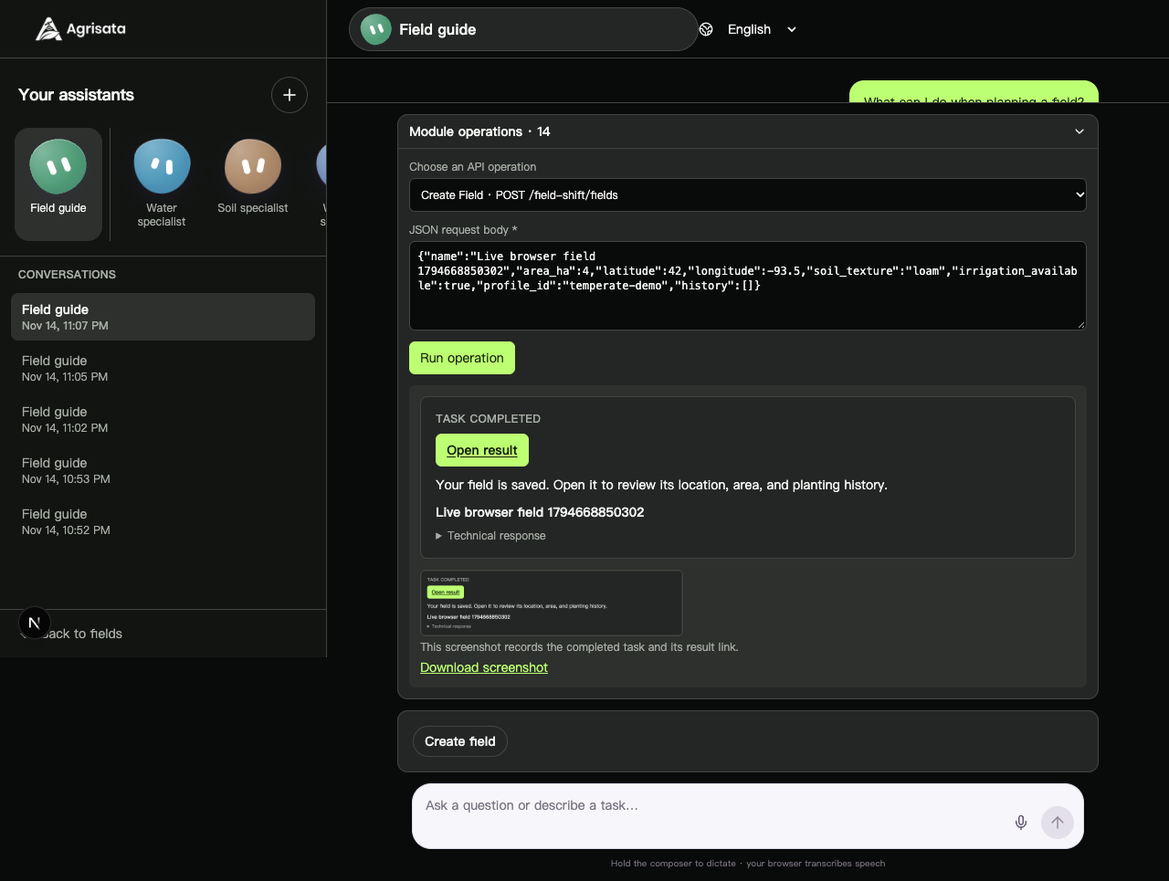
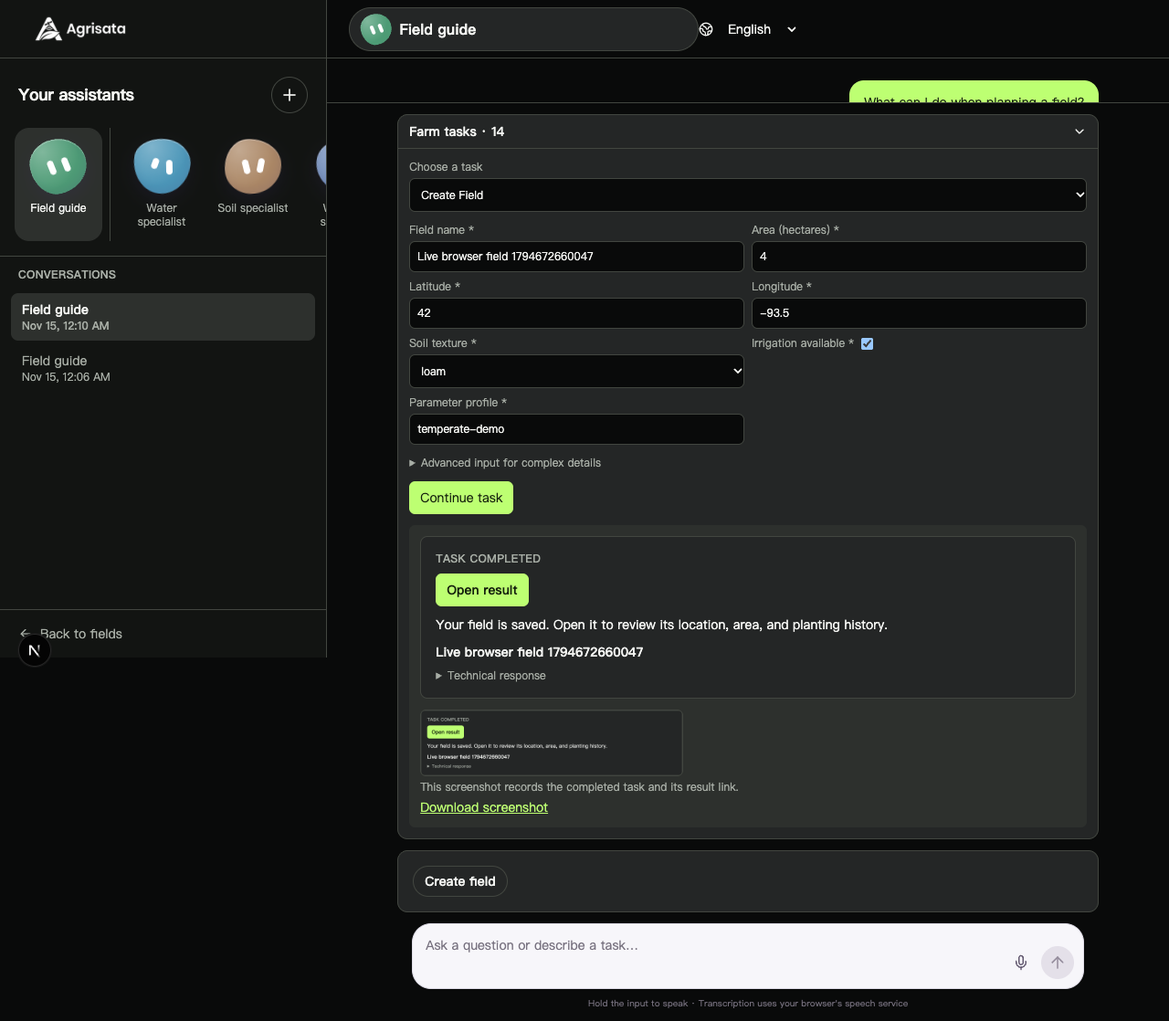
feat(assistant): show farmer-friendly task fields and refresh browser evidence

diff --git a/sideronostos-frontend/src/features/si/module-operations.tsx b/sideronostos-frontend/src/features/si/module-operations.tsx
@@ -9,8 +9,8 @@ import { CompletionReceipt } from "./completion-receipt";
 
 type Props = { conversationId: string; language: "en" | "zh" };
 const labels = {
-  en: { heading: "Module operations", choose: "Choose an API operation", loadError: "Could not load module operations.", noOps: "This assistant has no operational APIs. Ask it a question to search its knowledge base.", run: "Run operation", working: "Running…", body: "JSON request body", result: "Operation result", open: "Open result", progress: "View progress", invalid: "Enter a valid JSON object.", inputs: "Required information", method: "Method", status: "Status", details: "Technical response" },
-  zh: { heading: "模块接口操作", choose: "选择要执行的接口", loadError: "模块接口目录加载失败。", noOps: "此助手没有可操作接口。可以直接提问来检索它的知识库。", run: "执行接口", working: "正在执行…", body: "JSON 请求体", result: "操作结果", open: "打开结果", progress: "查看进度", invalid: "请输入有效的 JSON 对象。", inputs: "需要补充的信息", method: "方法", status: "状态", details: "技术返回数据" },
+  en: { heading: "Farm tasks", choose: "Choose a task", loadError: "Could not load farm tasks.", noOps: "This assistant has no operational tasks. Ask it a question to search its knowledge base.", run: "Continue task", working: "Working…", body: "Advanced JSON input", advanced: "Advanced input for complex details", result: "Operation result", open: "Open result", progress: "View progress", invalid: "Enter a valid JSON object.", inputs: "Required information", method: "Method", status: "Status", details: "Technical response" },
+  zh: { heading: "农场任务", choose: "选择要完成的任务", loadError: "农场任务加载失败。", noOps: "此助手没有可操作的任务。可以直接提问来检索知识库。", run: "继续任务", working: "正在处理…", body: "高级 JSON 输入", advanced: "复杂信息的高级输入", result: "操作结果", open: "打开结果", progress: "查看进度", invalid: "请输入有效的 JSON 对象。", inputs: "需要补充的信息", method: "方法", status: "状态", details: "技术返回数据" },
 };
 
 function resultSummary(result: unknown, language: "en" | "zh"): string | null {
@@ -36,8 +36,36 @@ function requiredValue(schema: unknown): unknown {
   if (shape.default !== undefined) return shape.default;
   if (shape.enum?.length) return shape.enum[0];
   if (shape.type === "boolean") return false;
-  if (shape.type === "integer" || shape.type === "number") return 0;
+  if (shape.type === "array") return [];
+  if (shape.type === "integer" || shape.type === "number") return "";
   return "";
+}
+
+function initialBody(operation?: ModuleOperation): string {
+  const schema = operation?.body as { properties?: Record<string, unknown> } | null;
+  const initial = Object.fromEntries((operation?.required_body_parameters ?? [])
+    .map((key) => [key, requiredValue(schema?.properties?.[key])]));
+  return JSON.stringify(initial, null, 2);
+}
+
+type PropertyShape = { type?: string; title?: string; description?: string; enum?: unknown[] };
+
+function bodyObject(value: string): Record<string, unknown> {
+  try {
+    const parsed: unknown = JSON.parse(value);
+    return parsed && typeof parsed === "object" && !Array.isArray(parsed)
+      ? parsed as Record<string, unknown> : {};
+  } catch { return {}; }
+}
+
+function fieldTitle(name: string, language: "en" | "zh"): string {
+  const names: Record<string, [string, string]> = {
+    name: ["Field name", "地块名称"], area_ha: ["Area (hectares)", "面积（公顷）"],
+    latitude: ["Latitude", "纬度"], longitude: ["Longitude", "经度"],
+    soil_texture: ["Soil texture", "土壤质地"], irrigation_available: ["Irrigation available", "具备灌溉条件"],
+    profile_id: ["Parameter profile", "参数配置"],
+  };
+  return names[name]?.[language === "zh" ? 1 : 0] ?? name.replaceAll("_", " ");
 }
 
 export function ModuleOperations({ conversationId, language }: Props) {
@@ -59,7 +87,11 @@ export function ModuleOperations({ conversationId, language }: Props) {
   useEffect(() => {
     let live = true;
     api.listModuleOperations(conversationId).then(({ items }) => {
-      if (live) { setOperations(items); setSelectedId(items[0]?.operation_id ?? ""); }
+      if (live) {
+        setOperations(items);
+        setSelectedId(items[0]?.operation_id ?? "");
+        setBodyText(initialBody(items[0]));
+      }
     }).catch(() => { if (live) setError(text.loadError); });
     return () => { live = false; };
   }, [conversationId, text.loadError]);
@@ -71,13 +103,19 @@ export function ModuleOperations({ conversationId, language }: Props) {
     return () => { live = false; };
   }, [conversationId]);
   const selected = useMemo(() => operations.find((item) => item.operation_id === selectedId) ?? null, [operations, selectedId]);
+  const bodyValues = useMemo(() => bodyObject(bodyText), [bodyText]);
+  const bodyProperties = (selected?.body?.properties ?? {}) as Record<string, PropertyShape>;
+  function setBodyProperty(name: string, value: unknown, required: boolean) {
+    const updated = { ...bodyObject(bodyText) };
+    if (value === "" && !required) delete updated[name];
+    else updated[name] = value;
+    setBodyText(JSON.stringify(updated, null, 2));
+  }
   function select(id: string) {
     touched.current = true;
     setSelectedId(id); setPathValues({}); setQueryValues({}); setOutcome(null); setError("");
     const operation = operations.find((item) => item.operation_id === id);
-    const schema = operation?.body as { properties?: Record<string, unknown> } | null;
-    const initial = Object.fromEntries((operation?.required_body_parameters ?? []).map((key) => [key, requiredValue(schema?.properties?.[key])]));
-    setBodyText(JSON.stringify(initial, null, 2));
+    setBodyText(initialBody(operation));
   }
   async function run() {
     if (!selected || busy) return;
@@ -109,12 +147,26 @@ export function ModuleOperations({ conversationId, language }: Props) {
       {error && <p role="alert" className="text-destructive">{error}</p>}
       {!error && operations.length === 0 && <p className="text-muted-foreground">{text.noOps}</p>}
       {operations.length > 0 && <>
-        <label className="block text-xs text-muted-foreground">{text.choose}<select aria-label={text.choose} className="mt-1 block w-full rounded-md border border-border bg-background p-2 text-foreground" value={selectedId} onChange={(event) => select(event.target.value)}>{operations.map((item) => <option key={item.operation_id} value={item.operation_id}>{item.title ? `${item.title} · ` : ""}{item.method} {item.path}</option>)}</select></label>
+        <label className="block text-xs text-muted-foreground">{text.choose}<select aria-label={text.choose} className="mt-1 block w-full rounded-md border border-border bg-background p-2 text-foreground" value={selectedId} onChange={(event) => select(event.target.value)}>{operations.map((item) => <option key={item.operation_id} value={item.operation_id}>{item.title || item.operation_id.replaceAll("_", " ")}</option>)}</select></label>
         {selected && <>
           {(selected.path_parameters.length > 0 || selected.query_parameters.length > 0) && <div className="grid gap-2 sm:grid-cols-2">
             {[...selected.path_parameters.map((name) => ({ name, group: "path" as const, required: true })), ...selected.query_parameters.map((name) => ({ name, group: "query" as const, required: selected.required_query_parameters.includes(name) }))].map(({ name, group, required }) => <label key={`${group}.${name}`} className="text-xs text-muted-foreground">{name}{required ? " *" : ""}<input aria-label={`${name}${required ? " *" : ""}`} required={required} value={(group === "path" ? pathValues : queryValues)[name] ?? ""} onChange={(event) => (group === "path" ? setPathValues : setQueryValues)((values) => ({ ...values, [name]: event.target.value }))} className="mt-1 block w-full rounded-md border border-border bg-background p-2 text-foreground" /></label>)}
           </div>}
-          {selected.body && <label className="block text-xs text-muted-foreground">{text.body}{selected.body_required ? " *" : ""}<textarea aria-label={text.body} value={bodyText} onChange={(event) => setBodyText(event.target.value)} rows={5} spellCheck={false} className="mt-1 block w-full rounded-md border border-border bg-background p-2 font-mono text-xs text-foreground" /></label>}
+          {selected.body && <>
+            <div className="grid gap-2 sm:grid-cols-2">
+              {Object.entries(bodyProperties).filter(([, shape]) => shape.type === "string" || shape.type === "number" || shape.type === "integer" || shape.type === "boolean").map(([name, shape]) => {
+                const required = selected.required_body_parameters.includes(name);
+                const label = `${fieldTitle(name, language)}${required ? " *" : ""}`;
+                const current = bodyValues[name];
+                return <label key={name} className="text-xs text-muted-foreground">{label}
+                  {shape.enum?.length ? <select aria-label={label} value={String(current ?? "")} onChange={(event) => setBodyProperty(name, event.target.value, required)} className="mt-1 block w-full rounded-md border border-border bg-background p-2 text-foreground">{!required && <option value="">—</option>}{shape.enum.map((value) => <option key={String(value)} value={String(value)}>{String(value)}</option>)}</select>
+                    : shape.type === "boolean" ? <input aria-label={label} type="checkbox" checked={current === true} onChange={(event) => setBodyProperty(name, event.target.checked, required)} className="ml-2 align-middle" />
+                      : <input aria-label={label} type={shape.type === "number" || shape.type === "integer" ? "number" : "text"} step={shape.type === "integer" ? "1" : shape.type === "number" ? "any" : undefined} value={typeof current === "string" || typeof current === "number" ? current : ""} onChange={(event) => setBodyProperty(name, shape.type === "number" || shape.type === "integer" ? (event.target.value === "" ? "" : Number(event.target.value)) : event.target.value, required)} className="mt-1 block w-full rounded-md border border-border bg-background p-2 text-foreground" />}
+                </label>;
+              })}
+            </div>
+            <details className="text-xs text-muted-foreground"><summary className="cursor-pointer">{text.advanced}</summary><label className="mt-2 block">{text.body}<textarea aria-label={text.body} value={bodyText} onChange={(event) => setBodyText(event.target.value)} rows={5} spellCheck={false} className="mt-1 block w-full rounded-md border border-border bg-background p-2 font-mono text-xs text-foreground" /></label></details>
+          </>}
           <button type="button" onClick={() => void run()} disabled={busy} className="rounded-md bg-primary px-3 py-2 text-primary-foreground disabled:opacity-60">{busy && <LoaderCircle size={14} className="mr-1 inline animate-spin" />}{busy ? text.working : text.run}</button>
         </>}
       </>}

diff --git a/sideronostos-frontend/e2e/assistant-live.spec.ts b/sideronostos-frontend/e2e/assistant-live.spec.ts
@@ -2,6 +2,16 @@ import { expect, test } from "@playwright/test";
 
 test.skip(!process.env.ASSISTANT_LIVE_BACKEND, "Requires the dedicated live assistant test app and seeded test database");
 
+async function fillFieldTask(page: import("@playwright/test").Page, name: string, area: string) {
+  await page.getByRole("textbox", { name: "Field name *" }).fill(name);
+  await page.getByRole("spinbutton", { name: "Area (hectares) *" }).fill(area);
+  await page.getByRole("spinbutton", { name: "Latitude *" }).fill("42");
+  await page.getByRole("spinbutton", { name: "Longitude *" }).fill("-93.5");
+  await page.getByRole("combobox", { name: "Soil texture *" }).selectOption("loam");
+  await page.getByRole("checkbox", { name: "Irrigation available *" }).check();
+  await page.getByRole("textbox", { name: "Parameter profile *" }).fill("temperate-demo");
+}
+
 test("uses real HTTP handlers for knowledge, field creation, result link, and screenshot", async ({ page }) => {
   await page.goto("/si/multi-agent");
   await page.getByRole("button", { name: "Field guide" }).click();
@@ -10,22 +20,18 @@ test("uses real HTTP handlers for knowledge, field creation, result link, and sc
   await expect(composer).toBeVisible();
   await composer.fill("What can I do when planning a field?");
   await page.getByRole("button", { name: "Send message" }).click();
-  await expect(page.getByText(/For your farm planning/).first()).toBeVisible();
+  await expect(page.getByText(/I can explain field setup/).first()).toBeVisible();
   await page.screenshot({ path: "output/playwright/assistant-live-answer.png", fullPage: true });
   await page.getByRole("button", { name: /View source/ }).first().click();
   await expect(page.getByRole("link", { name: "Open source" })).toBeVisible();
   await page.getByRole("button", { name: "Close source" }).click();
 
-  await page.getByText(/Module operations/).click();
-  const operations = page.getByRole("combobox", { name: "Choose an API operation" });
+  await page.getByText(/Farm tasks/).click();
+  const operations = page.getByRole("combobox", { name: "Choose a task" });
   await operations.selectOption("create_field_field_shift_fields_post");
   const name = `Live browser field ${Date.now()}`;
-  await page.getByRole("textbox", { name: "JSON request body" }).fill(JSON.stringify({
-    name, area_ha: 4, latitude: 42, longitude: -93.5,
-    soil_texture: "loam", irrigation_available: true,
-    profile_id: "temperate-demo", history: [],
-  }));
-  await page.getByRole("button", { name: "Run operation" }).click();
+  await fillFieldTask(page, name, "4");
+  await page.getByRole("button", { name: "Continue task" }).click();
   const receipt = page.getByRole("region", { name: "Operation result" });
   const link = receipt.getByRole("link", { name: "Open result" });
   await expect(link).toHaveAttribute("href", /\/field-shift\?field=[^&]+&step=field/);
@@ -35,7 +41,7 @@ test("uses real HTTP handlers for knowledge, field creation, result link, and sc
   await expect.poll(() => screenshot.evaluate((image: HTMLImageElement) => image.naturalWidth)).toBeGreaterThan(0);
   await page.screenshot({ path: "output/playwright/assistant-live.png", fullPage: true });
   await page.reload();
-  await page.getByText(/Module operations/).click();
+  await page.getByText(/Farm tasks/).click();
   await expect(link).toHaveAttribute("href", /\/field-shift\?field=/);
   await link.click();
   await expect(page).toHaveURL(/\/field-shift\?field=/);
@@ -60,9 +66,9 @@ test("runs the other module assistants against real HTTP handlers", async ({ pag
     const response = await completed;
     expect(response.status()).toBe(200);
     expect((await response.json()).response.paragraphs.length).toBeGreaterThan(0);
-    await page.getByText(/Module operations/).click();
-    await page.getByRole("combobox", { name: "Choose an API operation" }).selectOption(bot.operation);
-    await page.getByRole("button", { name: "Run operation" }).click();
+    await page.getByText(/Farm tasks/).click();
+    await page.getByRole("combobox", { name: "Choose a task" }).selectOption(bot.operation);
+    await page.getByRole("button", { name: "Continue task" }).click();
     const receipt = page.getByRole("region", { name: "Operation result" });
     await expect(receipt.getByRole("link", { name: "Open result" })).toHaveAttribute("href", bot.href);
     await expect(receipt.getByRole("img", { name: "Completed task screenshot" })).toBeVisible();
@@ -75,8 +81,8 @@ test("runs the other module assistants against real HTTP handlers", async ({ pag
   const completed = page.waitForResponse((response) => response.url().endsWith("/messages") && response.request().method() === "POST");
   await page.getByRole("button", { name: "Send message" }).click();
   expect((await completed).status()).toBe(200);
-  await page.getByText(/Module operations/).click();
-  await expect(page.getByText("This assistant has no operational APIs. Ask it a question to search its knowledge base.")).toBeVisible();
+  await page.getByText(/Farm tasks/).click();
+  await expect(page.getByText("This assistant has no operational tasks. Ask it a question to search its knowledge base.")).toBeVisible();
   await page.screenshot({ path: "output/playwright/assistant-live-local-knowledge.png", fullPage: true });
 });
 
@@ -84,15 +90,11 @@ test("executes a field operation from its own module dock", async ({ page }) => 
   await page.goto("/si/field-management");
   await page.getByRole("button", { name: "Open Field guide" }).click();
   await page.getByRole("button", { name: "Use module tools" }).click();
-  await page.getByText(/Module operations/).click();
-  await page.getByRole("combobox", { name: "Choose an API operation" }).selectOption("create_field_field_shift_fields_post");
+  await page.getByText(/Farm tasks/).click();
+  await page.getByRole("combobox", { name: "Choose a task" }).selectOption("create_field_field_shift_fields_post");
   const name = `Dock field ${Date.now()}`;
-  await page.getByRole("textbox", { name: "JSON request body" }).fill(JSON.stringify({
-    name, area_ha: 2.5, latitude: 42, longitude: -93.5,
-    soil_texture: "loam", irrigation_available: true,
-    profile_id: "temperate-demo", history: [],
-  }));
-  await page.getByRole("button", { name: "Run operation" }).click();
+  await fillFieldTask(page, name, "2.5");
+  await page.getByRole("button", { name: "Continue task" }).click();
   const result = page.getByRole("region", { name: "Operation result" });
   await expect(result.getByRole("link", { name: "Open result" })).toHaveAttribute("href", /\/field-shift\?field=/);
   await expect(result.getByRole("img", { name: "Completed task screenshot" })).toBeVisible();
@@ -107,9 +109,9 @@ test("opens real remote and rotation results from their module docks and answers
     await page.goto(item.route);
     await page.getByRole("button", { name: `Open ${item.bot}` }).click();
     await page.getByRole("button", { name: "Use module tools" }).click();
-    await page.getByText(/Module operations/).click();
-    await page.getByRole("combobox", { name: "Choose an API operation" }).selectOption(item.operation);
-    await page.getByRole("button", { name: "Run operation" }).click();
+    await page.getByText(/Farm tasks/).click();
+    await page.getByRole("combobox", { name: "Choose a task" }).selectOption(item.operation);
+    await page.getByRole("button", { name: "Continue task" }).click();
     const result = page.getByRole("region", { name: "Operation result" });
     await expect(result.getByRole("link", { name: "Open result" })).toHaveAttribute("href", item.href);
     await expect(result.getByRole("img", { name: "Completed task screenshot" })).toBeVisible();
@@ -121,5 +123,5 @@ test("opens real remote and rotation results from their module docks and answers
   const response = page.waitForResponse((event) => event.url().endsWith("/messages") && event.request().method() === "POST");
   await page.getByRole("button", { name: "Send message" }).click();
   expect((await response).status()).toBe(200);
-  await expect(page.getByText(/For your farm planning/).first()).toBeVisible();
+  await expect(page.getByText(/I can answer questions from the available local knowledge/).first()).toBeVisible();
 });

diff --git a/sideronostos-frontend/src/features/si/module-operations.test.tsx b/sideronostos-frontend/src/features/si/module-operations.test.tsx
@@ -20,7 +20,7 @@ it("restores the last completed result link after reopening a conversation", asy
     },
   }] });
   render(<ModuleOperations conversationId="chat-restored" language="en" />);
-  await userEvent.setup().click(await screen.findByText(/Module operations/));
+  await userEvent.setup().click(await screen.findByText(/Farm tasks/));
   expect(await screen.findByRole("link", { name: "Open result" })).toHaveAttribute("href", "/field-shift?field=field-7&step=field");
   expect(screen.getByText("North field")).toBeInTheDocument();
 });
@@ -41,11 +41,11 @@ it("collects required API inputs, reports missing information, and opens a compl
     href: "/field-shift?field=field-7&step=field",
   });
   render(<ModuleOperations conversationId="chat-1" language="en" />);
-  await user.click(await screen.findByText(/Module operations/));
-  await user.click(screen.getByRole("button", { name: "Run operation" }));
+  await user.click(await screen.findByText(/Farm tasks/));
+  await user.click(screen.getByRole("button", { name: "Continue task" }));
   expect(await screen.findByText("Please provide field_id")).toBeInTheDocument();
   await user.type(screen.getByRole("textbox", { name: "field_id *" }), "field-7");
-  await user.click(screen.getByRole("button", { name: "Run operation" }));
+  await user.click(screen.getByRole("button", { name: "Continue task" }));
   await waitFor(() => expect(api.postModuleOperation).toHaveBeenCalledTimes(2));
   expect(api.postModuleOperation.mock.calls[1][1]).toEqual(expect.objectContaining({
     operation_id: "get_field", path_params: { field_id: "field-7" },
@@ -65,8 +65,8 @@ it("does not render an unsafe result URL", async () => {
     status_code: 200, result: [], content_type: "application/json", href: "//evil.example",
   });
   render(<ModuleOperations conversationId="chat-2" language="en" />);
-  await user.click(await screen.findByText(/Module operations/));
-  await user.click(screen.getByRole("button", { name: "Run operation" }));
+  await user.click(await screen.findByText(/Farm tasks/));
+  await user.click(screen.getByRole("button", { name: "Continue task" }));
   expect(await screen.findByText("Completed")).toBeInTheDocument();
   expect(screen.queryByRole("link", { name: "Open result" })).not.toBeInTheDocument();
 });
@@ -84,8 +84,39 @@ it("shows a progress link for an accepted job without a completion screenshot", 
     content_type: "application/json", href: "/field-shift/rotation?run=run-1",
   });
   render(<ModuleOperations conversationId="chat-3" language="en" />);
-  await user.click(await screen.findByText(/Module operations/));
-  await user.click(screen.getByRole("button", { name: "Run operation" }));
+  await user.click(await screen.findByText(/Farm tasks/));
+  await user.click(screen.getByRole("button", { name: "Continue task" }));
   expect(await screen.findByRole("link", { name: "View progress" })).toHaveAttribute("href", "/field-shift/rotation?run=run-1");
   expect(screen.queryByRole("img", { name: "Completed task screenshot" })).not.toBeInTheDocument();
+});
+
+it("collects a field task through labelled inputs and keeps complex JSON optional", async () => {
+  const user = userEvent.setup();
+  api.listModuleOperations.mockResolvedValue({ items: [{
+    operation_id: "create_field", title: "Create Field", method: "POST", path: "/field-shift/fields",
+    path_parameters: [], query_parameters: [], required_query_parameters: [],
+    body: { type: "object", properties: {
+      name: { type: "string" }, area_ha: { type: "number" },
+      irrigation_available: { type: "boolean" }, history: { type: "array" },
+    } },
+    body_required: true, required_body_parameters: ["name", "area_ha", "irrigation_available", "history"],
+    required_inputs: ["body.name", "body.area_ha", "body.irrigation_available", "body.history"],
+  }] });
+  api.postModuleOperation.mockResolvedValue({
+    status: "succeeded", operation_id: "create_field", text: "Your field is saved.",
+    missing_inputs: [], status_code: 201, result: { id: "field-9", name: "Creek field" },
+    content_type: "application/json", href: "/field-shift?field=field-9&step=field",
+  });
+  render(<ModuleOperations conversationId="chat-field" language="en" />);
+  await user.click(await screen.findByText(/Farm tasks/));
+  await user.type(screen.getByRole("textbox", { name: "Field name *" }), "Creek field");
+  await user.type(screen.getByRole("spinbutton", { name: "Area (hectares) *" }), "4");
+  await user.click(screen.getByRole("checkbox", { name: "Irrigation available *" }));
+  expect(screen.getByText("Advanced input for complex details")).toBeInTheDocument();
+  expect(screen.queryByRole("textbox", { name: "Advanced JSON input" })).not.toBeVisible();
+  await user.click(screen.getByRole("button", { name: "Continue task" }));
+  await waitFor(() => expect(api.postModuleOperation).toHaveBeenCalledWith("chat-field", expect.objectContaining({
+    body: { name: "Creek field", area_ha: 4, irrigation_available: true, history: [] },
+  })));
+  expect(await screen.findByRole("link", { name: "Open result" })).toHaveAttribute("href", "/field-shift?field=field-9&step=field");
 });

diff --git a/sideronostos-frontend/src/components/bot/MultiBotDock.test.tsx b/sideronostos-frontend/src/components/bot/MultiBotDock.test.tsx
@@ -116,8 +116,8 @@ it("opens a module API from a fresh field specialist chat and returns the comple
   await user.click(screen.getByRole("button", { name: "Open Field guide" }));
   await user.click(await screen.findByRole("button", { name: "Use module tools" }));
   expect(api.createConversation).toHaveBeenCalledWith({ preset: "field_management", bot_id: "field-guide", language: "en", detail: "brief" });
-  await user.click(await screen.findByText(/Module operations/));
-  await user.click(screen.getByRole("button", { name: "Run operation" }));
+  await user.click(await screen.findByText(/Farm tasks/));
+  await user.click(screen.getByRole("button", { name: "Continue task" }));
   await waitFor(() => expect(api.postModuleOperation).toHaveBeenCalledWith("field-1", expect.objectContaining({ operation_id: "list_fields" })));
   expect(await screen.findByRole("link", { name: "Open result" })).toHaveAttribute("href", "/field-shift");
 });

diff --git a/sideronostos-frontend/e2e/assistant-completed.spec.ts b/sideronostos-frontend/e2e/assistant-completed.spec.ts
@@ -87,8 +87,8 @@ test("completes a mock assistant chat and opens its knowledge citation", async (
     "https://example.org/agrisata/field-guide",
   );
   await page.getByRole("button", { name: "Close source" }).click();
-  await page.getByText(/Module operations/).click();
-  await page.getByRole("button", { name: "Run operation" }).click();
+  await page.getByText(/Farm tasks/).click();
+  await page.getByRole("button", { name: "Continue task" }).click();
   await expect(page.getByText(/Operation list_profiles/)).toBeVisible();
   await expect(page.getByRole("link", { name: "Open result" })).toHaveAttribute("href", "/field-shift");
   const receipt = page.getByRole("region", { name: "Operation result" });

diff --git a/sideronostos-backend/src/sideronostos_backend/modules/farm_assistant/dialogue.py b/sideronostos-backend/src/sideronostos_backend/modules/farm_assistant/dialogue.py
@@ -243,7 +243,10 @@ def route_message(question: str, context: dict[str, Any]) -> DialogueRoute:
         r"who are you|你(?:是谁|能做什么|可以做什么|能帮我做什么)|有什么功能",
         text,
     ) or re.search(
-        r"new here|what can you actually help|first time here|先不填.*表|需要.{0,8}告诉你什么",
+        r"new here|what can you actually help|first time here|先不填.*表|需要.{0,8}告诉你什么|"
+        r"what (?:can|should) i (?:do|check).{0,40}(?:field|planning)|"
+        r"what can (?:the |a )?satellite map tell me|"
+        r"how do i prepare (?:a )?rotation",
         text,
     ):
         follow_up = GENERAL_FOLLOW_UP.get(bot, GENERAL_FOLLOW_UP["rotation-guide"])[int(zh)]

diff --git a/docs/integration/farmer-dialogue-evaluation.md b/docs/integration/farmer-dialogue-evaluation.md
@@ -12,6 +12,10 @@ Final: 36/36 replies completed; 36/36 were judged suitable as first responses to
 
 Judgment criteria: answer the actual question in the selected bot scope; avoid fabricated records, measurements, forecasts, profit and legal conclusions; ask only for the next useful input; distinguish an available tool from a completed operation. The verdict applies to these frozen prompts and this mock environment only.
 
+## Browser follow-up
+
+The separate local browser smoke passed four journeys after the dialogue changes. It sent chat messages, created a synthetic owned field through labelled task inputs, reopened the confirmed field result, restored operation history, and checked the water, rotation, and module-dock result links and completion receipts. The current screenshots are [field completion](evidence/assistant-field-completion.png), [opened field](evidence/assistant-field-result-page.png), [water](evidence/assistant-remote-sensing.png), and [rotation](evidence/assistant-rotation.png). The task picker still requires an explicit user choice; free chat prose does not execute a write.
+
 ## Backend diagnosis and fix
 
 - The local mock release stored `HELPV2` but version and specialist source filters excluded it, leaving many requests with no retrieved evidence. The old mock generator also copied the first lexical excerpt, even when it concerned a different module.

diff --git a/docs/integration/agent-capabilities.md b/docs/integration/agent-capabilities.md
@@ -66,8 +66,9 @@ and a browser-generated screenshot of the completion card. HTTP 202 remains
 The water specialist can use all remote-sensing operations. The soil and
 weather specialists retain their scoped guided actions; generic operations
 are blocked for them so they cannot retrieve the other specialty's data
-through an unfiltered business endpoint. The catalog is an explicit operation
-picker with JSON input for complex request bodies. It does not infer
+through an unfiltered business endpoint. The catalog is an explicit task
+picker with labelled inputs for scalar fields and advanced JSON input for
+complex request bodies. It does not infer
 operations from free chat prose.
 
 Chat first routes complete greetings and thanks to a conversational reply. A greeting
